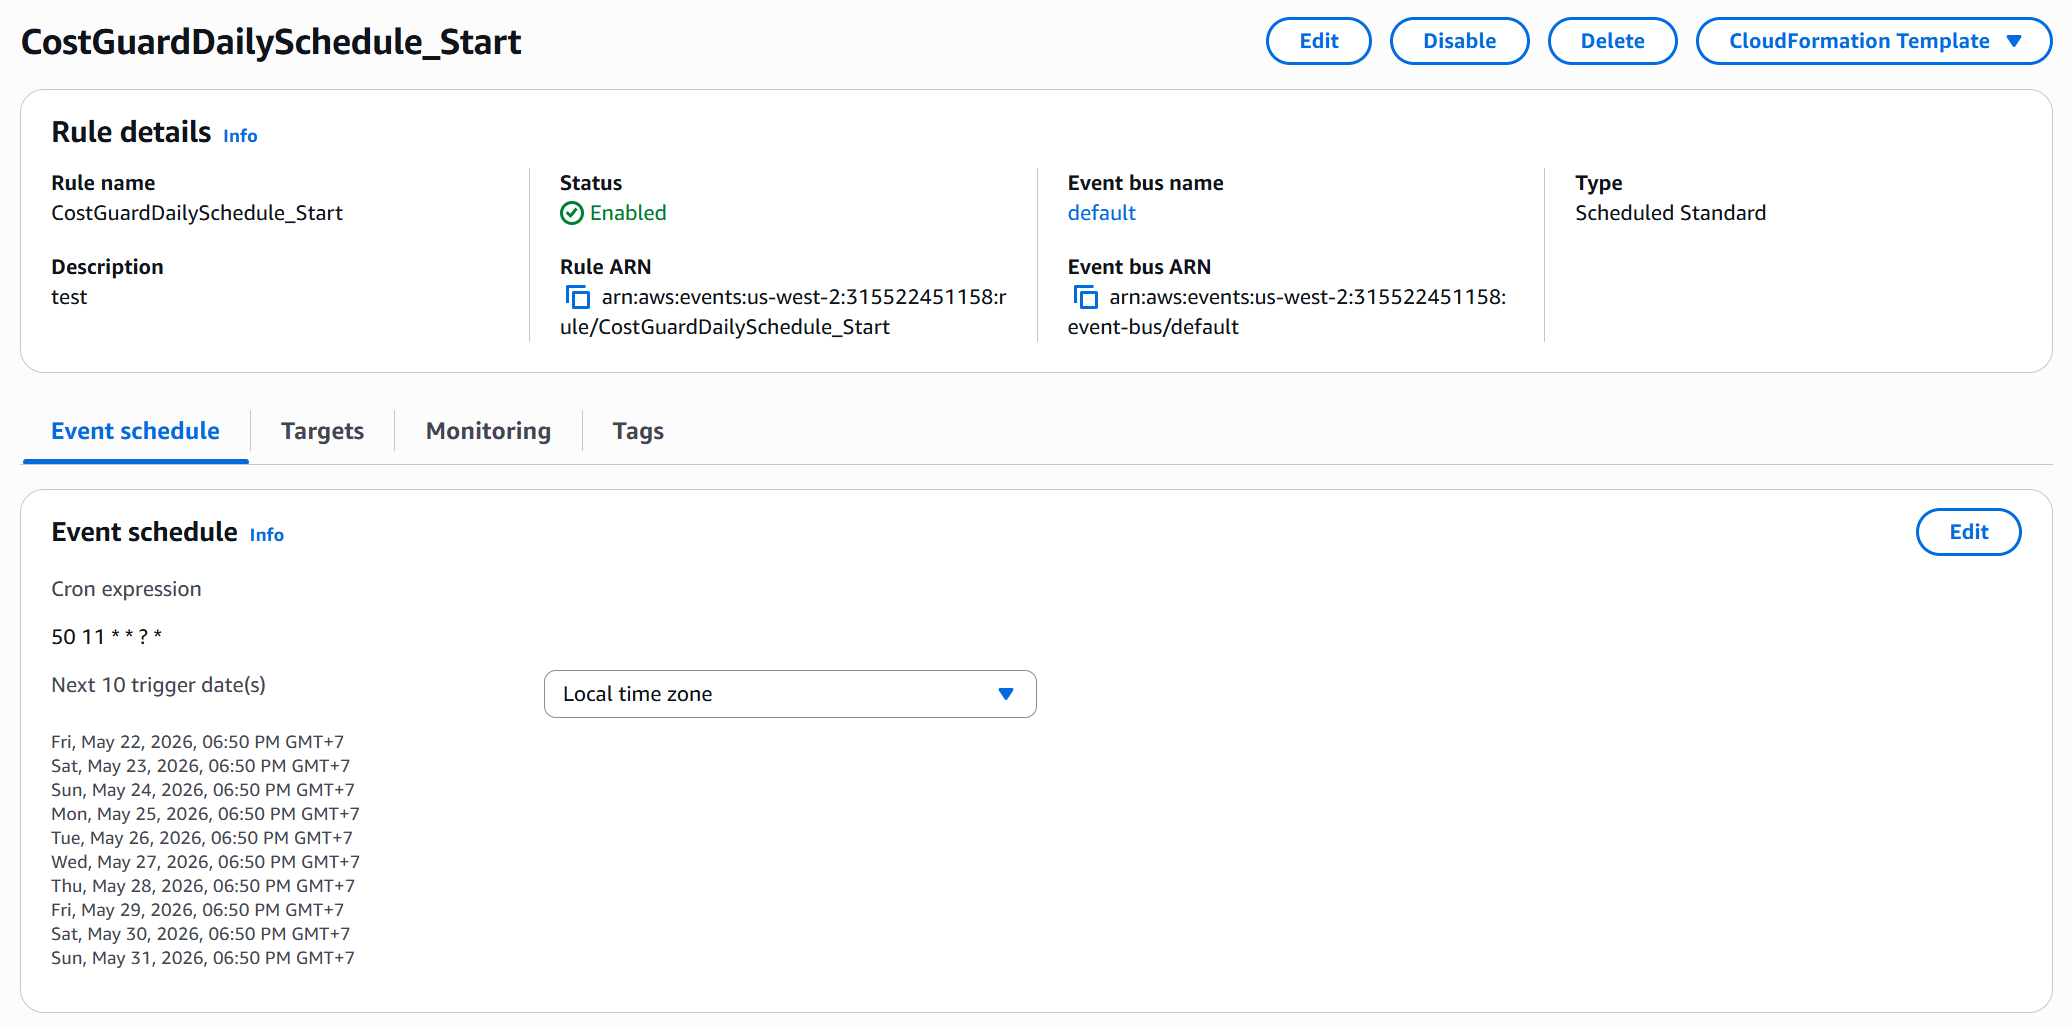
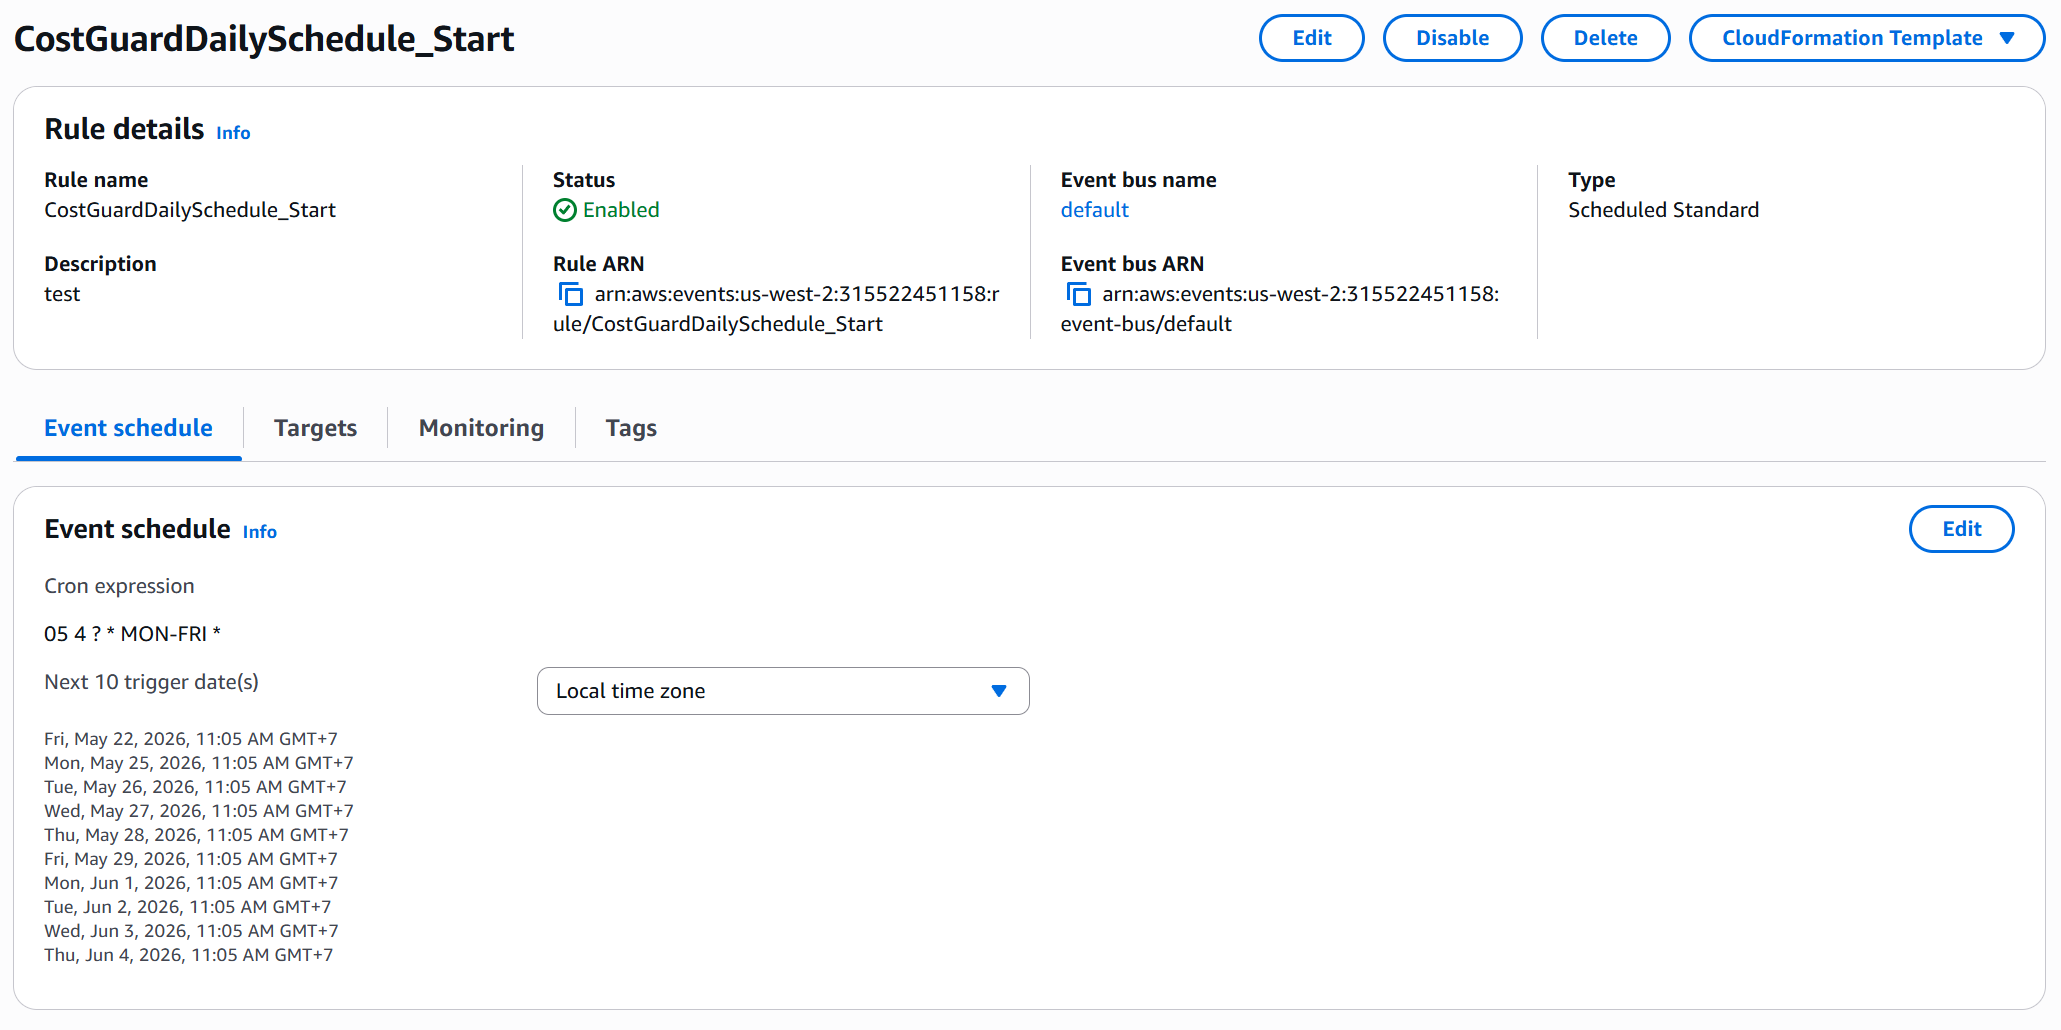
feat: update mh-2

diff --git a/evidence_pack/W6_evidence.md b/evidence_pack/W6_evidence.md
@@ -127,16 +127,21 @@ Our work for this component follows this diagram below:
 Here is the **Scheduled Standard Rule using a Cron expression** used to trigger Lambda to stop RDS instance
 ![alt text](../assets/CostGuardDailySchedule_stop.png)
 ![alt text](../assets/CostGuardDailySchedule_stop_target.png)
-A quick breakdown of exactly what `45 11 * * ? *` is telling AWS to do:
-- `45`: The 45th minute of the hour
-- `06`: The 6th hour of the day (in GMT+7)
-- `*, *, ?, *`: Every day of the month, every month, regardless of the day of the week, every year 
 
-This means every day at precisely 11:45 AM UTC, EventBridge will reach out and execute the `Guard_Lambda` function
 
-The same for start triggering job
+This setup is used to invoke Lambda to start RDS instance
 ![alt text](../assets/CostGuardDailySchedule_start.png)
 ![alt text](../assets/CostGuardDailySchedule_start_target.png)
+Here is the IAM Role of EventBridge
+![alt text](../assets/EventBridgeIAMRole.png)
+
+Before:
+
+After: 
+
+## Component (d) — Cost-driven path
+Our work for this component follows this diagram below:
+![alt text](../assets/CostAlertDiagram.png)
 
 # MH-OBS
 
